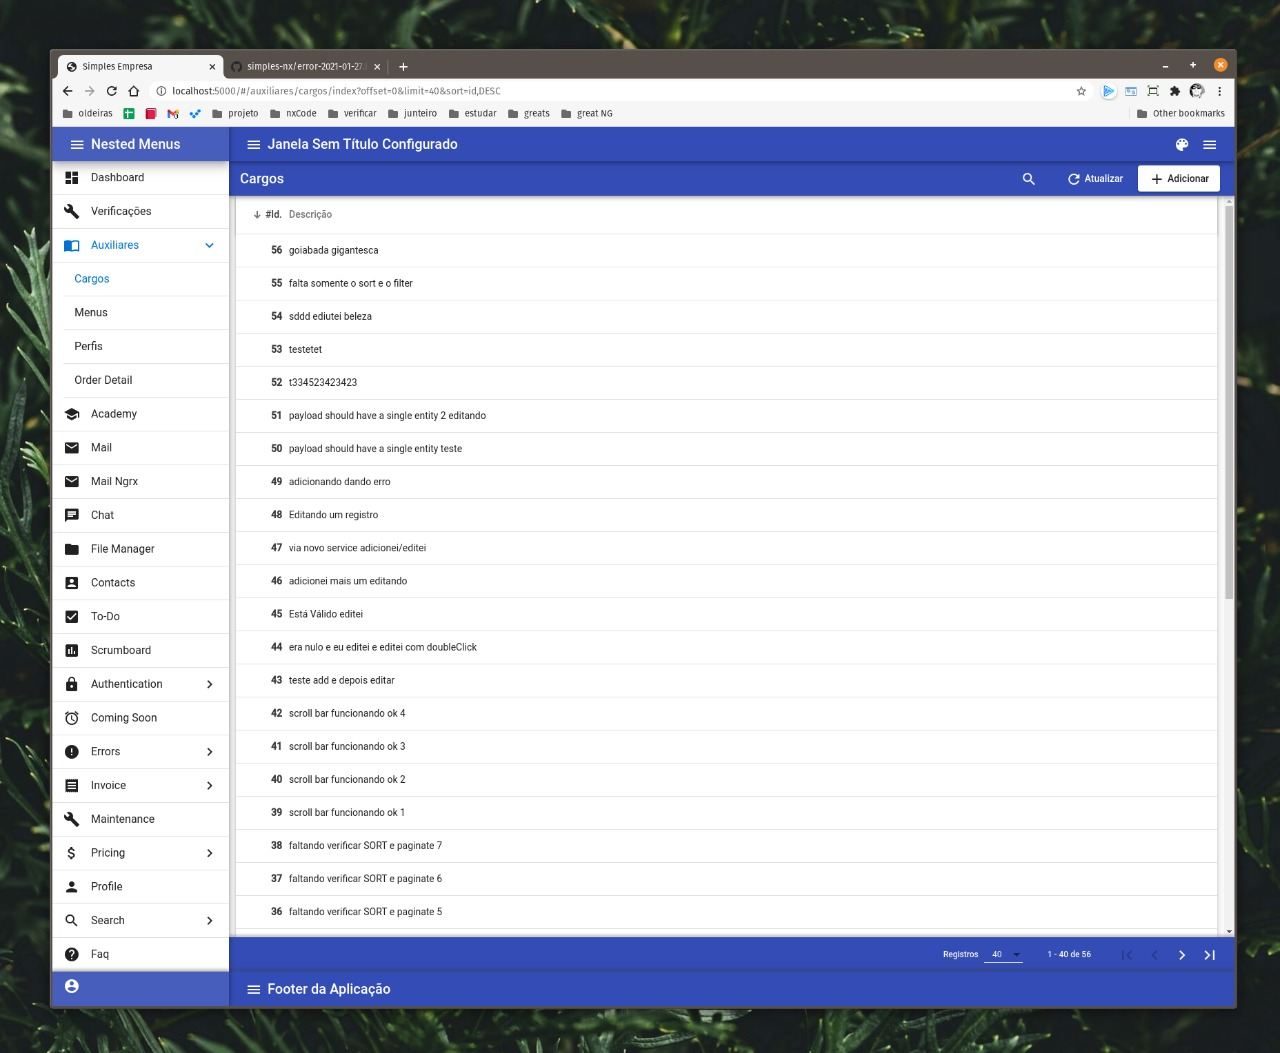
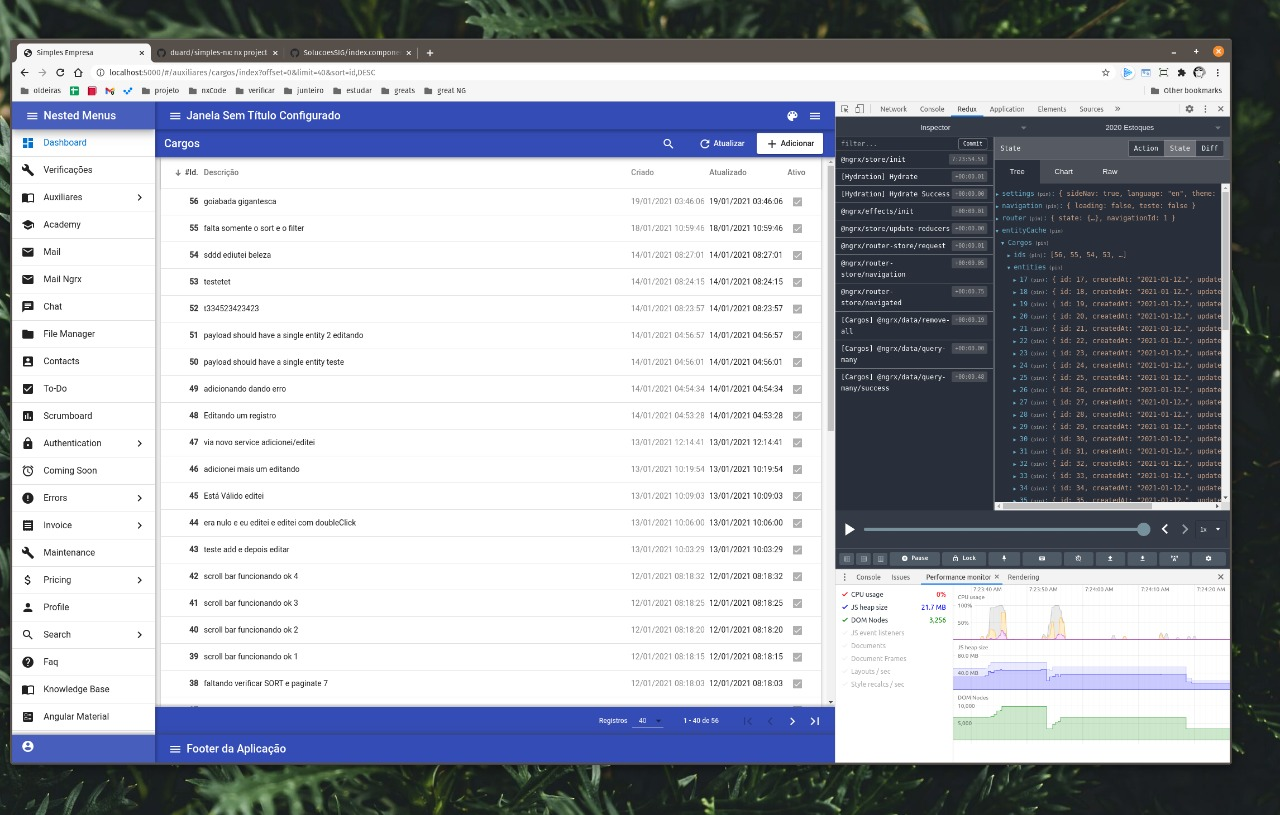
feat: crud profiles added

diff --git a/libs/app-auxiliares/src/lib/cargos/index/index.component.html b/libs/app-auxiliares/src/lib/cargos/index/index.component.html
@@ -8,7 +8,8 @@
       (add)="onAdd()"
       (filterAPI)="onFilterApi($event)"
       (refresh)="onRefresh($event)"
-    ></app-toolbar-crud-simples>
+    >
+    </app-toolbar-crud-simples>
   </div>
 
   <div class="content main-container" #scrollContainer>
@@ -33,49 +34,51 @@
         >
           #Id.
         </th>
-        <td
-          mat-cell
-          *matCellDef="let rec"
-          class="adireita"
-          layout-align="start center"
-        >
+        <td mat-cell *matCellDef="let rec" class="adireita" layout-align="start center">
           {{ rec?.id }}
         </td>
       </ng-container>
 
       <ng-container matColumnDef="description">
-        <th
-          mat-header-cell
-          *matHeaderCellDef
-          mat-sort-header
-          layout-align="start center"
-        >
-          Descrição
-        </th>
+        <th mat-header-cell *matHeaderCellDef mat-sort-header layout-align="start center">Descrição</th>
         <td mat-cell *matCellDef="let rec" layout-align="start center">
           {{ rec?.description }}
         </td>
       </ng-container>
 
+      <ng-container matColumnDef="createdAt">
+        <th mat-header-cell *matHeaderCellDef mat-sort-header layout-align="start center" class="centralizado">
+          Criado
+        </th>
+        <td mat-cell *matCellDef="let rec" layout-align="start center">
+          {{ rec?.createdAt | date: 'dd/MM/yyyy hh:mm:ss' }}
+        </td>
+      </ng-container>
+
+      <ng-container matColumnDef="updatedAt">
+        <th mat-header-cell *matHeaderCellDef mat-sort-header layout-align="start center" class="centralizado">
+          Atualizado
+        </th>
+        <td mat-cell *matCellDef="let rec" layout-align="start center">
+          {{ rec?.updatedAt | date: 'dd/MM/yyyy hh:mm:ss' }}
+        </td>
+      </ng-container>
+
+      <ng-container matColumnDef="isActive">
+        <th mat-header-cell *matHeaderCellDef mat-sort-header class="centralizado">Ativo</th>
+        <td mat-cell *matCellDef="let rec" class="centralizado">
+          <mat-checkbox [checked]="rec?.isActive" readonly disabled></mat-checkbox>
+        </td>
+      </ng-container>
+
       <tbody>
-        <tr
-          mat-header-row
-          *matHeaderRowDef="displayedColumns; sticky: true"
-          class="mat-elevation-z2"
-        ></tr>
-        <tr
-          mat-row
-          *matRowDef="let row; columns: displayedColumns"
-          (dblclick)="onDblClick(row)"
-        ></tr>
+        <tr mat-header-row *matHeaderRowDef="displayedColumns; sticky: true" class="mat-elevation-z2"></tr>
+        <tr mat-row *matRowDef="let row; columns: displayedColumns" (dblclick)="onDblClick(row)"></tr>
       </tbody>
     </table>
   </div>
 
   <div class="footer">
-    <app-toolbar-crud-footer
-      [total]="selectors$.total$ | async"
-      (paginate)="onPaginateAPI()"
-    ></app-toolbar-crud-footer>
+    <app-toolbar-crud-footer [total]="selectors$.total$ | async" (paginate)="onPaginateAPI()"></app-toolbar-crud-footer>
   </div>
 </div>

diff --git a/libs/app-auxiliares/src/lib/cargos/index/index.component.ts b/libs/app-auxiliares/src/lib/cargos/index/index.component.ts
@@ -23,16 +23,21 @@ export class IndexComponent extends IndexDlgApiComponent implements OnInit, Afte
   loading$: Observable<boolean>;
   data$: Observable<Cargo[]> = this.dataService.filteredEntities$;
 
-  displayedColumns: string[] = [
-    'id',
-    // 'created_at',
-    // 'updated_at',
-    // 'deleted_at',
-    // 'is_deleted',
-    // 'is_active',
-    'description'
-  ];
+  displayedColumns: string[] = ['id', 'description', 'createdAt', 'updatedAt', 'isActive'];
 
+  /*
+
+{ 
+"id": 56, 
+"createdAt": "2021-01-19T18:46:06.000Z", 
+"updatedAt": "2021-01-19T18:46:06.000Z", 
+"deletedAt": null, 
+"isDeleted": false, 
+"isActive": true, 
+"description": "goiabada gigantesca" 
+}      
+
+  */
   constructor(private injector: Injector, @Inject('env') public env, private dataService: CargosCollectionService) {
     super(injector, env);
     // localStorage.removeItem(this.localParams);

diff --git a/libs/styles/src/lib/_fields.scss b/libs/styles/src/lib/_fields.scss
@@ -26,18 +26,27 @@
   // width: 90%;
 }
 
+.mat-column-isActive {
+  color: #222;
+  padding-right: 2px;
+  max-width: 36px !important;
+  width: 15px !important;
+}
+
 .mat-column-createdAt {
+  text-align: center;
   color: rgb(138, 138, 138) !important;
   padding-right: 5px;
-  min-width: 115px !important;
-  width: 115px;
+  min-width: 140px !important;
+  width: 140px;
   text-align: left;
 }
 
 .mat-column-updatedAt {
-  color: rgb(118, 118, 118) !important;
+  text-align: center;
+
   padding-right: 5px;
-  min-width: 115px !important;
-  width: 115px;
+  min-width: 140px !important;
+  width: 140px !important;
   text-align: left;
 }
